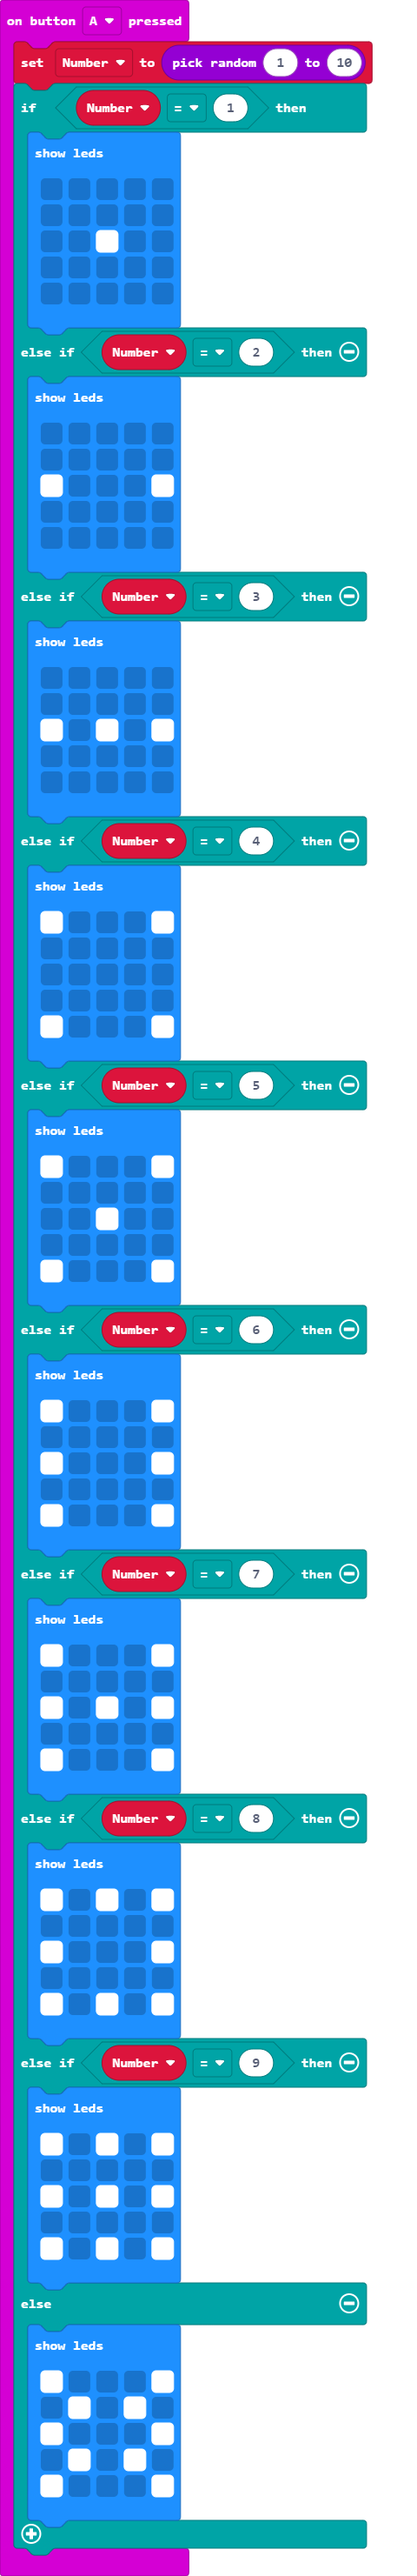
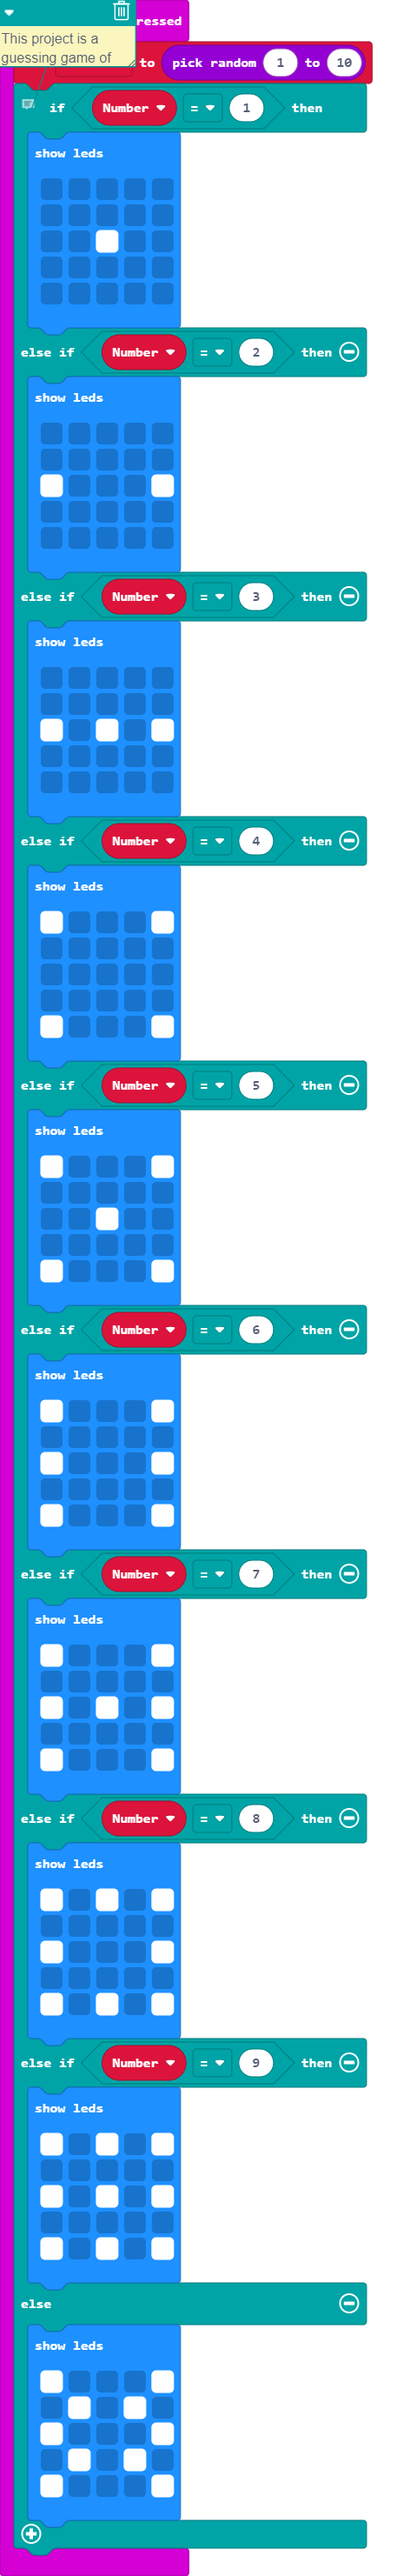
Update main.blocks, main.ts

Changed region(s): [[0.0, 0.0, 0.3438, 0.0621], [0.5, 0.0311, 0.625, 0.0621], [0.3438, 0.0311, 0.4375, 0.0621]]

diff --git a/main.ts b/main.ts
@@ -1,6 +1,7 @@
 let Number2 = 0
 input.onButtonPressed(Button.A, function () {
     Number2 = randint(1, 10)
+    // This project is a guessing game of which numbers ( 1 - 10 ) will come next.
     if (Number2 == 1) {
         basic.showLeds(`
             . . . . .
